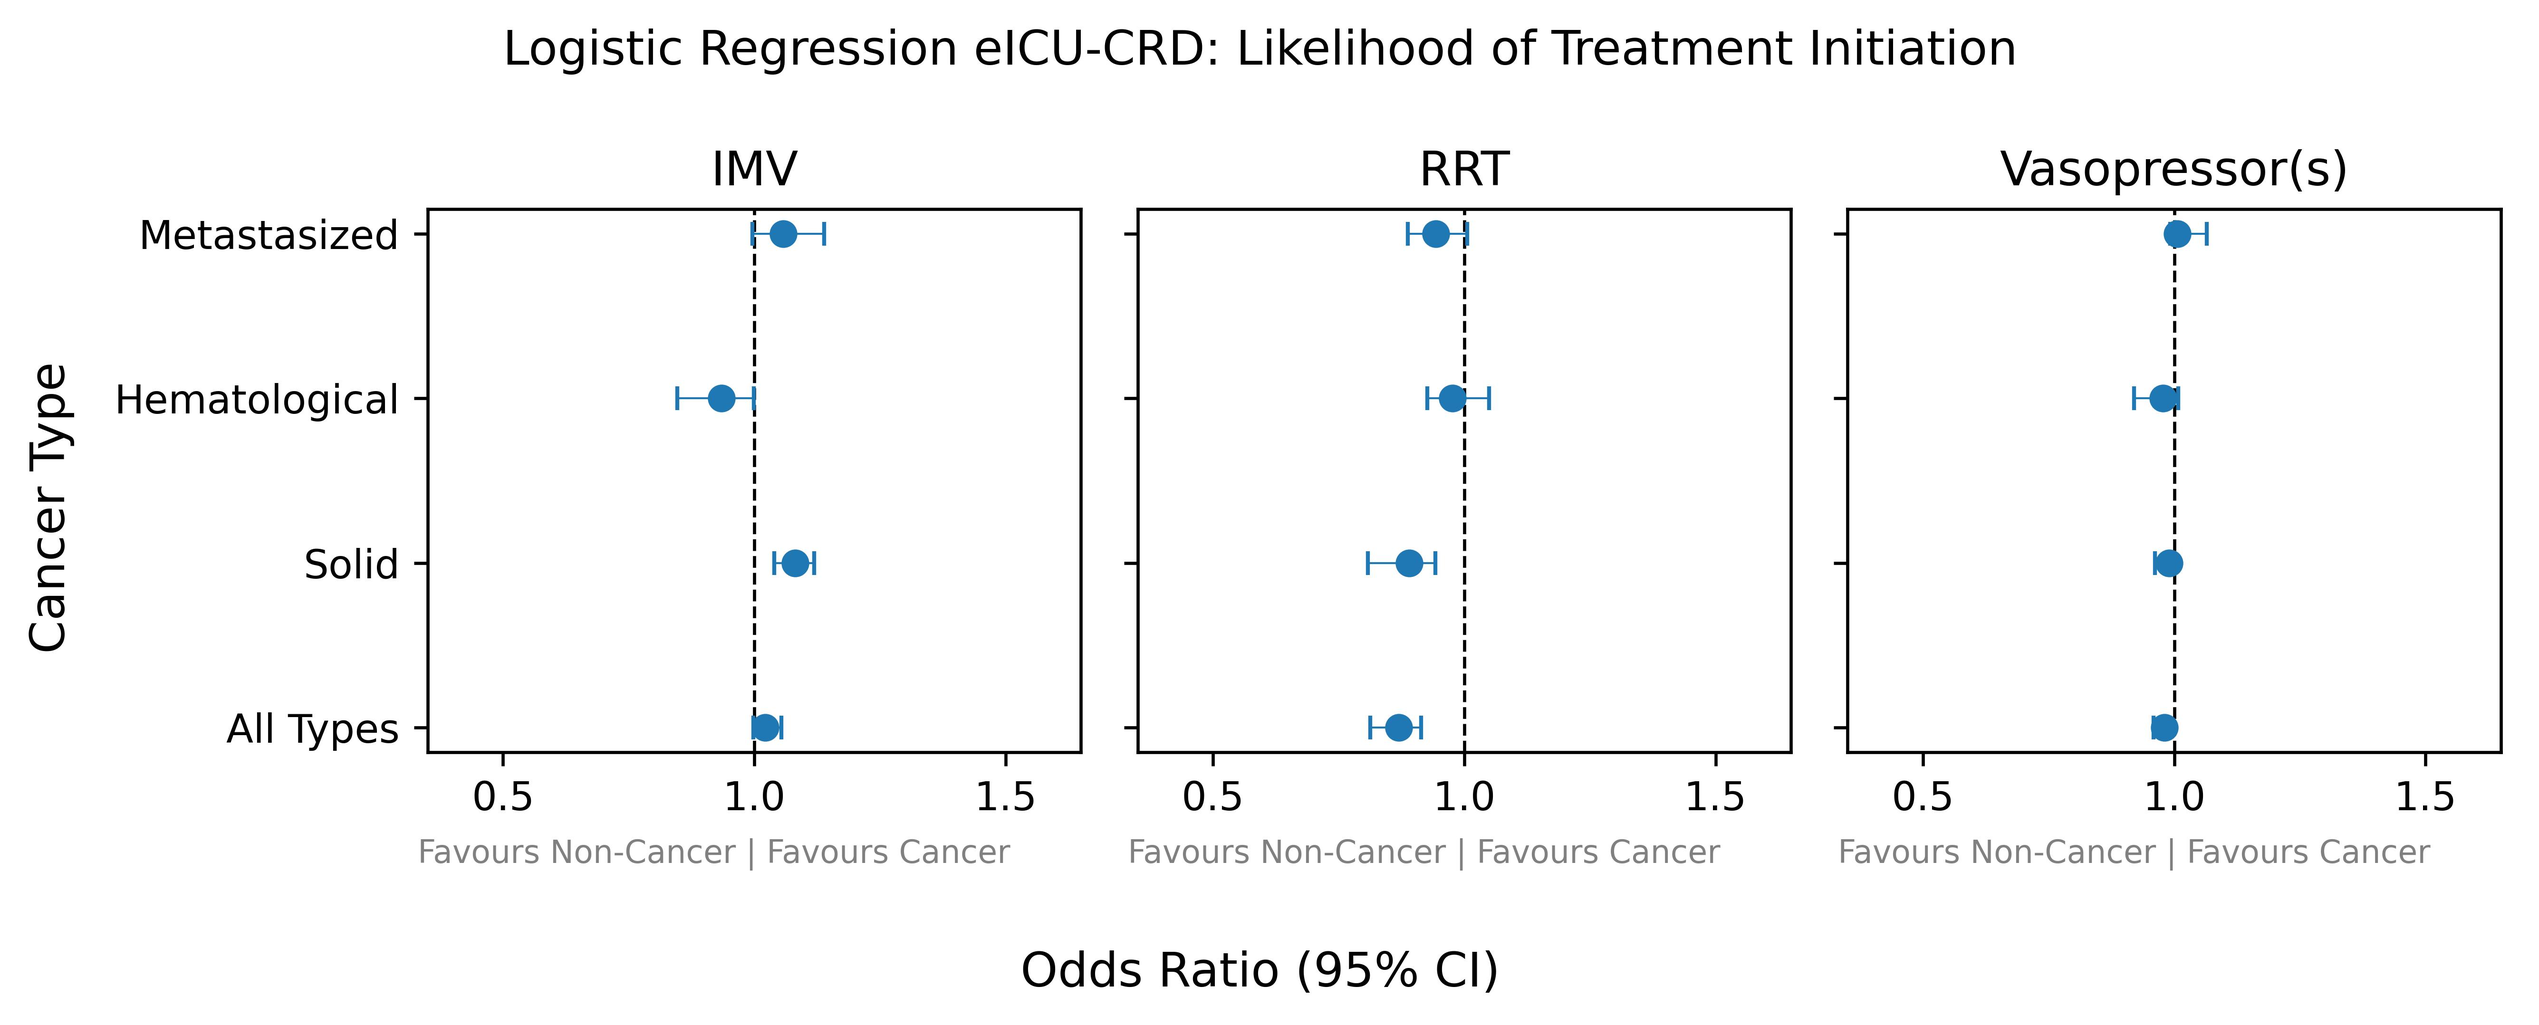
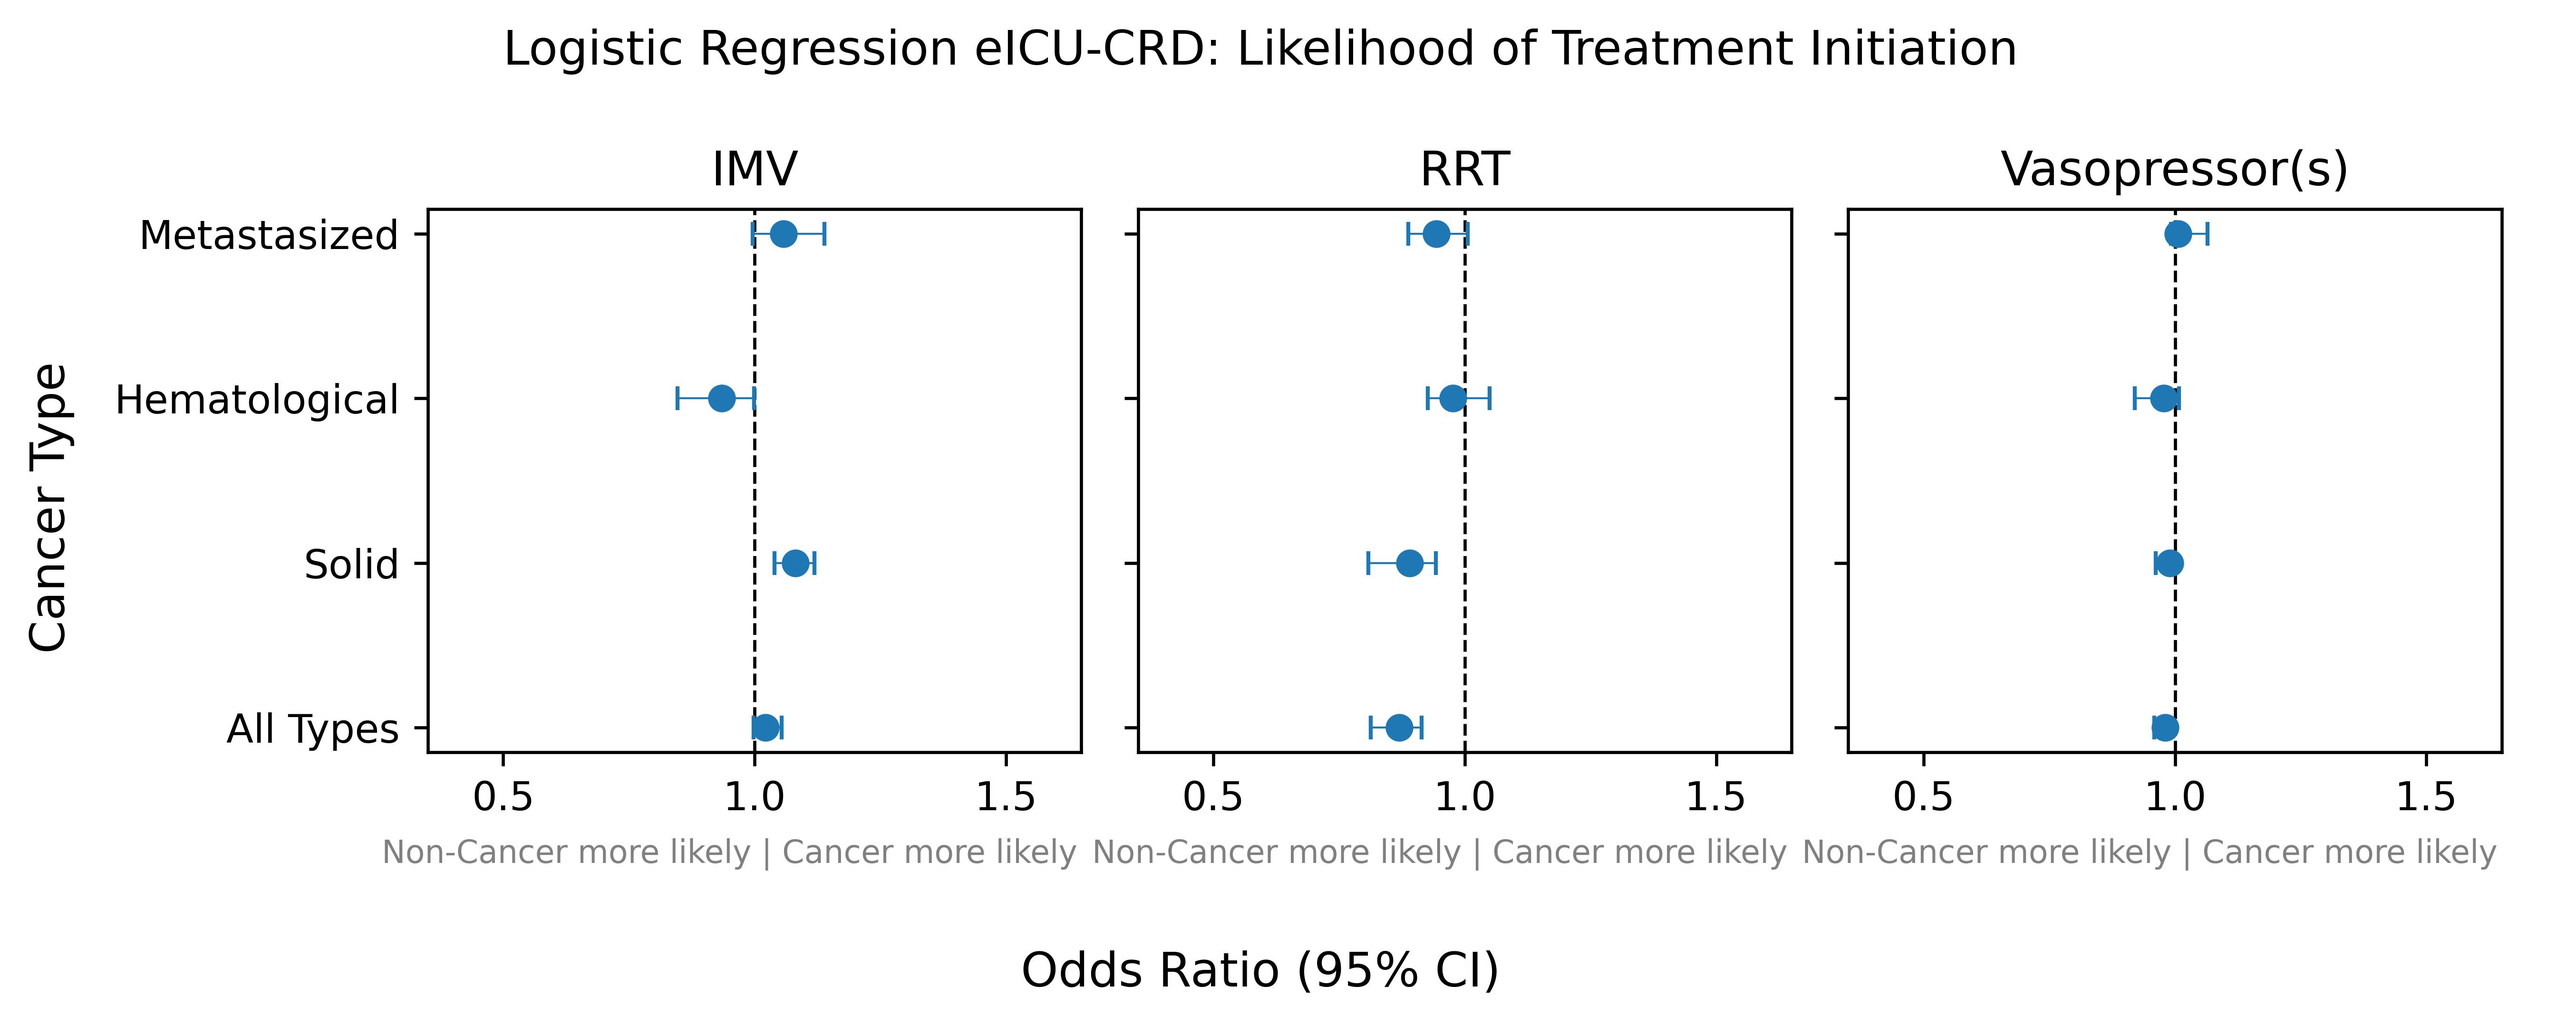
reploted figures

diff --git a/src/6_plots/plot_likelihood.py b/src/6_plots/plot_likelihood.py
@@ -1,80 +1,92 @@
+import matplotlib
 import pandas as pd
 from matplotlib import pyplot as plt
 
-import matplotlib
-matplotlib.use('TKAgg')
+matplotlib.use("TKAgg")
 
 
 def plot_results(filename, model_name):
-
     # load data from csv file into pandas dataframe
     data = pd.read_csv(f"results/models/{filename}.csv")
 
     # group data by treatment type
-    treatment_groups = data.groupby("treatment")
+    filtered_data = data[data["treatment"] != "rrt_elig"]  # filter out rrt_elig
+    treatment_groups = filtered_data.groupby("treatment")
 
-    cancer_names = ['All Types','Solid', 'Hematological', 'Metastasized']
+    cancer_names = ["All Types", "Solid", "Hematological", "Metastasized"]
 
     # Set the figure and axes
-    fig, axes = plt.subplots(1, 3,
-                            sharex=True, sharey=True,
-                            figsize=(9, 3.5))
+    # fig, axes = plt.subplots(1, 3, sharex=True, sharey=True, figsize=(9, 3.5)) # for 3 subplots
+    fig, axes = plt.subplots(
+        1, 2, sharex=True, sharey=True, figsize=(7.5, 3.5)
+    )  # for 2 subplots
 
-    fig.suptitle(f'{model_name}: Likelihood of Treatment Initiation')
+    fig.suptitle(f"{model_name}: Likelihood of Treatment Initiation")
 
     # create dictionary of name for each treatment group
-    treatment_names = {"mv_elig": "IMV",
-                       "rrt_elig": "RRT",
-                       "vp_elig": "Vasopressor(s)"
+    treatment_names = {
+        "mv_elig": "IMV",
+        # "rrt_elig": "RRT",
+        "vp_elig": "Vasopressor(s)",
     }
 
     # set common horizontal line at 1 for all subplots
     for i, ax in enumerate(axes):
-        ax.axvline(x=1, linewidth=0.8, linestyle='--', color='black')
+        ax.axvline(x=1, linewidth=0.8, linestyle="--", color="black")
 
     # loop over treatment groups and create a subplot for each
     for (treatment, group), ax in zip(treatment_groups, axes):
         # plot odds ratios with confidence intervals as error bars
-        ax.errorbar(group["OR"],
-                    group["cohort"]*3,
-                    xerr=[group["OR"] - group["2.5%"], group["97.5%"] - group["OR"]],
-                    fmt='o',
-                    linewidth=.5,
-                    capsize=3)
+        ax.errorbar(
+            group["OR"],
+            group["cohort"] * 3,
+            xerr=[group["OR"] - group["2.5%"], group["97.5%"] - group["OR"]],
+            fmt="o",
+            linewidth=0.5,
+            capsize=3,
+        )
         # set subplot title
         ax.set_title([treatment_names[treatment]][0])
         # set yrange to breath a bit
         # ax.set_ylim([1.5, 13.5])
         # set xrange to
-        ax.set_xlim([.35, 1.65])
+        ax.set_xlim([0.75, 1.25])
         # set yticks in string format
         # ax.set_yticks([3,6,9,12])
         ax.set_yticklabels(cancer_names)
-        ax.set_xlabel("Favours Non-Cancer | Favours Cancer        ",
-                    fontsize=8, labelpad=5, color='gray')
-        
+        ax.set_xlabel(
+            "Non-Cancer more likely | Cancer more likely        ",
+            fontsize=8,
+            labelpad=5,
+            color="gray",
+        )
 
-    fig.supxlabel('Odds Ratio (95% CI)')
-    fig.supylabel('Cancer Type')
+    fig.supxlabel("Odds Ratio (95% CI)")
+    fig.supylabel("Cancer Type")
     plt.tight_layout()
 
     # Save the figure
-    #fig.savefig(f"results/plots/{filename}.png", dpi=300, bbox_inches="tight")
+    # fig.savefig(f"results/plots/{filename}.png", dpi=300, bbox_inches="tight")
     fig.savefig(f"results/plots/{filename}.jpeg", dpi=600, bbox_inches="tight")
 
-filenames = ["logreg_cv_all_coh_all",
-             "logreg_cv_all_coh_mimic",
-             "logreg_cv_all_coh_eicu", 
-             "xgb_cv_all_coh_all",
-             "xgb_cv_all_coh_mimic",
-             "xgb_cv_all_coh_eicu"]
 
-model_names = ["Logistic Regression All",
-               "Logistic Regression MIMIC-IV",
-               "Logistic Regression eICU-CRD",
-               "XGBoost All",
-               "XGBoost MIMIC-IV",
-               "XGBoost eICU-CRD"]
+filenames = [
+    # "logreg_cv_all_coh_all",
+    # "logreg_cv_all_coh_mimic",
+    # "logreg_cv_all_coh_eicu",
+    "xgb_cv_all_coh_all",
+    "xgb_cv_all_coh_mimic",
+    "xgb_cv_all_coh_eicu",
+]
+
+model_names = [
+    # "Logistic Regression All",
+    # "Logistic Regression MIMIC-IV",
+    # "Logistic Regression eICU-CRD",
+    "XGBoost All",
+    "XGBoost MIMIC-IV",
+    "XGBoost eICU-CRD",
+]
 
 for f, m in zip(filenames, model_names):
     plot_results(f, m)
